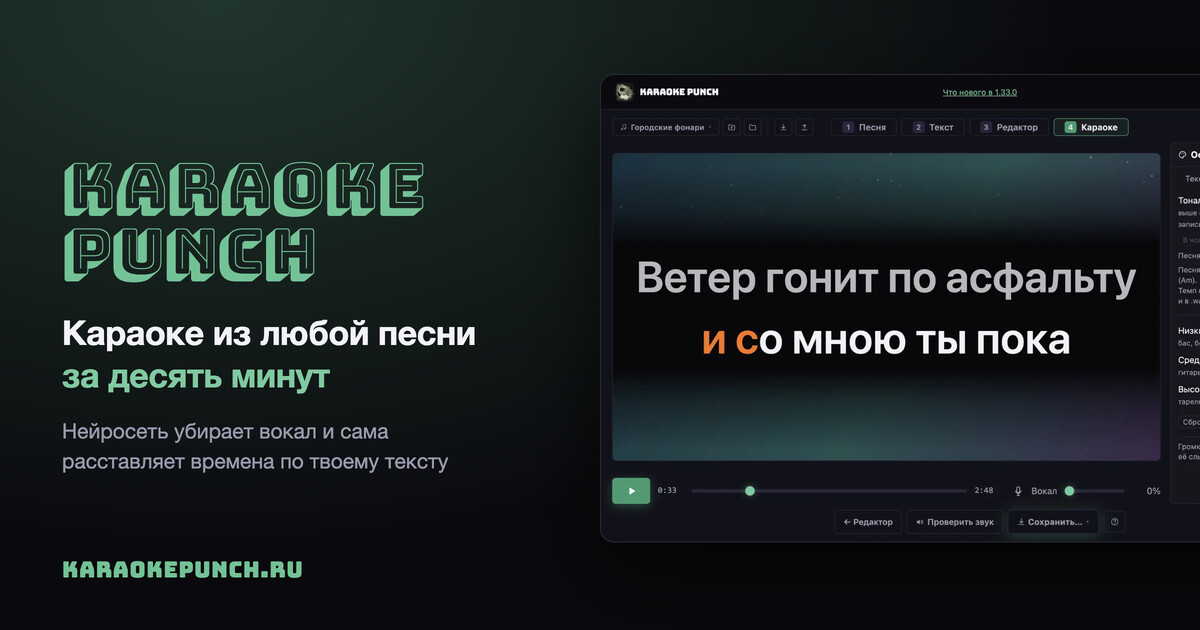
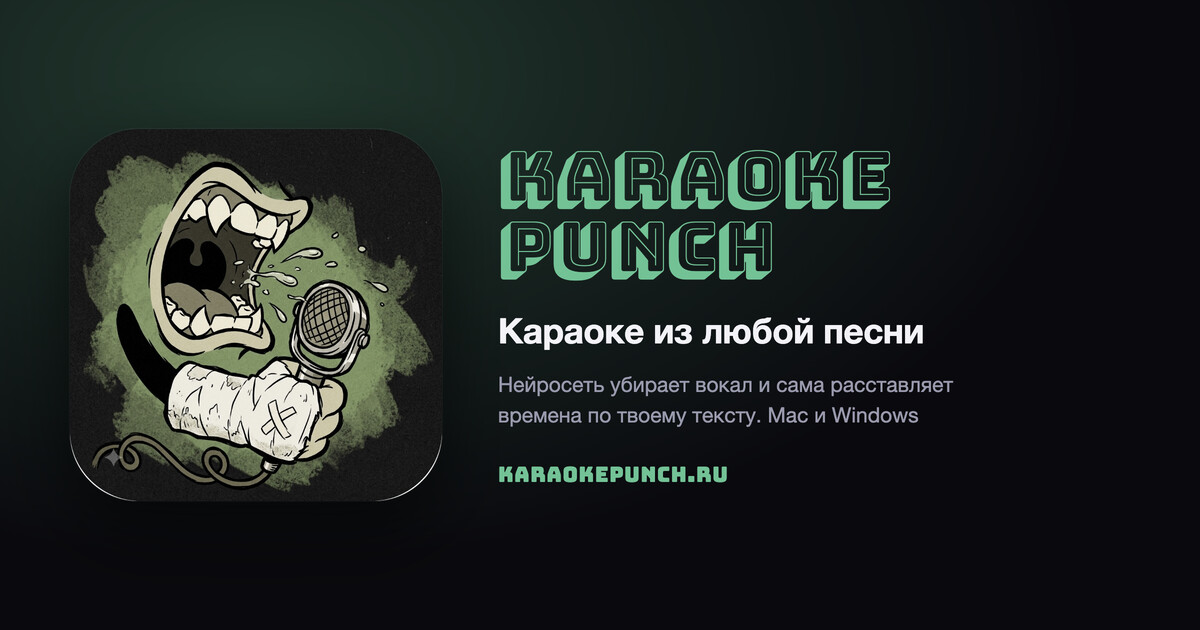
Карточка ссылки — с логотипом
Человек сказал прямо: «я думал карточкой будет логотип». Так вернее:
в ленте мессенджера картинку видят размером в ноготь, и узнаётся там
не снимок окна, а сам знак. Теперь на карточке логотип, название нашим
шрифтом, одна строка про дело и адрес сайта; снимки студии остались
там, где их разглядывают, — на самой странице.

Рядом с _card.html лежит _card2.html — запасная раскладка: логотип
и название посередине, без пояснений. Поменять карточку — это снять
другую страницу и положить в shots/card.jpg.

Версия сайта 1.33.4: номер в адресе картинки сбивает кэш карточки
у мессенджеров, иначе они ещё сутки показывали бы прежнюю.

diff --git a/index.html b/index.html
@@ -33,7 +33,7 @@
   <meta property="og:url" content="https://karaokepunch.ru/">
   <meta property="og:title" data-i18n-content="мета.заголовок" content="Karaoke Punch — создай караоке из любой песни">
   <meta property="og:description" data-i18n-content="мета.описание" content="Караоке-студия для Mac и Windows: нейросеть убирает вокал и сама расставляет времена по твоему тексту. Пой с пословной подсветкой и сохраняй готовое видео. Бесплатно, без серверов и регистрации.">
-  <meta property="og:image" content="https://karaokepunch.ru/shots/card.jpg?v=1.33.3">
+  <meta property="og:image" content="https://karaokepunch.ru/shots/card.jpg?v=1.33.4">
   <meta property="og:image:type" content="image/jpeg">
   <meta property="og:image:width" content="1200">
   <meta property="og:image:height" content="630">
@@ -43,7 +43,7 @@
   <link rel="icon" href="icons/icon-192.png" sizes="192x192">
   <link rel="apple-touch-icon" href="icons/apple-touch-icon.png">
   <meta name="theme-color" content="#0a0a0f">
-  <link rel="stylesheet" href="style.css?v=1.33.3">
+  <link rel="stylesheet" href="style.css?v=1.33.4">
 </head>
 <body>
 
@@ -2890,22 +2890,22 @@
   <button class="footer-link" id="btn-whatsnew" data-i18n="подвал.новости">Что нового в {версия}</button>
 </footer>
 
-<script src="i18n.js?v=1.33.3"></script>
+<script src="i18n.js?v=1.33.4"></script>
 <!-- БПФ и счётчик темпа: общие с рабочими потоками (pitch-worker.js
      считает по fft.js тональность, tempo.js умеет работать и сам
      потоком). Здесь они нужны окну: самопроверке и запасному пути,
      если поток не завёлся. Обязательно ДО app.js. -->
-<script src="fft.js?v=1.33.3"></script>
-<script src="tempo.js?v=1.33.3"></script>
+<script src="fft.js?v=1.33.4"></script>
+<script src="tempo.js?v=1.33.4"></script>
 <!-- Чистая арифметика разметки: строки, слова, распев. Обязательно
      ДО app.js — он зовёт её функции и берёт из неё MIN_SPAN. -->
 <!-- Сборщики контейнеров. Нужны только при сохранении видео: студия
      сама сжимает кадры и звук и сама складывает из них файл, не полагаясь
      на запись в реальном времени (см. «Ролик собирается, а не пишется»
      в README). Оба лежат у нас, оба MIT. -->
-<script src="mp4-muxer.js?v=1.33.3"></script>
-<script src="webm-muxer.js?v=1.33.3"></script>
-<script src="timing.js?v=1.33.3"></script>
-<script src="app.js?v=1.33.3"></script>
+<script src="mp4-muxer.js?v=1.33.4"></script>
+<script src="webm-muxer.js?v=1.33.4"></script>
+<script src="timing.js?v=1.33.4"></script>
+<script src="app.js?v=1.33.4"></script>
 </body>
 </html>

diff --git a/_card.html b/_card.html
@@ -9,57 +9,51 @@
 * { margin: 0; padding: 0; box-sizing: border-box; }
 html, body { width: 1200px; height: 630px; overflow: hidden; }
 body {
-  background: radial-gradient(ellipse at 18% 0%, rgba(53, 156, 110, 0.30), transparent 62%), #0a0a0f;
+  background: radial-gradient(ellipse at 22% 12%, rgba(53, 156, 110, 0.32), transparent 62%), #0a0a0f;
   color: #f2f2f7;
   font-family: -apple-system, "Helvetica Neue", sans-serif;
   display: flex;
   align-items: center;
-  position: relative;
+  gap: 56px;
+  padding: 0 70px;
 }
-.left { width: 560px; padding: 0 0 0 62px; flex: none; }
+.logo {
+  width: 372px;
+  height: 372px;
+  flex: none;
+  border-radius: 68px;
+  box-shadow: 0 28px 70px rgba(0, 0, 0, 0.6), 0 0 0 1px rgba(255, 255, 255, 0.05);
+}
 .mark {
   font-family: 'Bungee Shade', Impact, sans-serif;
-  font-size: 62px;
-  line-height: 1.06;
+  font-size: 68px;
+  line-height: 1.04;
   color: #54C492;
-  letter-spacing: 0.01em;
 }
 .tag {
   margin-top: 26px;
-  font-size: 34px;
-  line-height: 1.25;
+  font-size: 35px;
+  line-height: 1.22;
   font-weight: 700;
   letter-spacing: -0.01em;
 }
-.tag i { color: #67CB9E; font-style: normal; }
-.sub { margin-top: 20px; font-size: 21px; line-height: 1.45; color: #9a9ab0; }
+.sub { margin-top: 18px; font-size: 21px; line-height: 1.45; color: #9a9ab0; }
 .host {
-  position: absolute;
-  left: 62px;
-  bottom: 46px;
+  margin-top: 30px;
   font-family: 'Bungee', Impact, sans-serif;
-  font-size: 22px;
+  font-size: 21px;
   color: #54C492;
   letter-spacing: 0.03em;
-}
-.shot {
-  position: absolute;
-  left: 600px;
-  top: 74px;
-  width: 760px;
-  border: 1px solid #2a2a36;
-  border-radius: 14px;
-  box-shadow: 0 30px 80px rgba(0, 0, 0, 0.65);
 }
 </style>
 </head>
 <body>
-  <div class="left">
+  <img class="logo" src="logo.png" alt="">
+  <div>
     <div class="mark">KARAOKE<br>PUNCH</div>
-    <div class="tag">Караоке из любой песни<br><i>за десять минут</i></div>
-    <div class="sub">Нейросеть убирает вокал и сама<br>расставляет времена по твоему тексту</div>
+    <div class="tag">Караоке из любой песни</div>
+    <div class="sub">Нейросеть убирает вокал и сама расставляет<br>времена по твоему тексту. Mac и Windows</div>
+    <div class="host">karaokepunch.ru</div>
   </div>
-  <img class="shot" src="shots/studio-4-ru.webp" alt="">
-  <div class="host">karaokepunch.ru</div>
 </body>
 </html>

diff --git a/desktop/renderer/index.html b/desktop/renderer/index.html
@@ -33,7 +33,7 @@
   <meta property="og:url" content="https://karaokepunch.ru/">
   <meta property="og:title" data-i18n-content="мета.заголовок" content="Karaoke Punch — создай караоке из любой песни">
   <meta property="og:description" data-i18n-content="мета.описание" content="Караоке-студия для Mac и Windows: нейросеть убирает вокал и сама расставляет времена по твоему тексту. Пой с пословной подсветкой и сохраняй готовое видео. Бесплатно, без серверов и регистрации.">
-  <meta property="og:image" content="https://karaokepunch.ru/shots/card.jpg?v=1.33.3">
+  <meta property="og:image" content="https://karaokepunch.ru/shots/card.jpg?v=1.33.4">
   <meta property="og:image:type" content="image/jpeg">
   <meta property="og:image:width" content="1200">
   <meta property="og:image:height" content="630">
@@ -2962,9 +2962,9 @@
      сама сжимает кадры и звук и сама складывает из них файл, не полагаясь
      на запись в реальном времени (см. «Ролик собирается, а не пишется»
      в README). Оба лежат у нас, оба MIT. -->
-<script src="mp4-muxer.js?v=1.33.3"></script>
-<script src="webm-muxer.js?v=1.33.3"></script>
-<script src="timing.js?v=1.33.3"></script>
+<script src="mp4-muxer.js?v=1.33.4"></script>
+<script src="webm-muxer.js?v=1.33.4"></script>
+<script src="timing.js?v=1.33.4"></script>
 <div class="export-overlay hidden" id="ai-overlay">
   <div class="export-box">
     <p id="ai-status" data-i18n="ии.готовим">Готовим модель…</p>

diff --git a/_card2.html b/_card2.html
@@ -1,0 +1,49 @@
+<!DOCTYPE html>
+<html lang="ru">
+<head>
+<meta charset="UTF-8">
+<title>карточка</title>
+<style>
+@font-face { font-family: 'Bungee'; src: url('fonts/bungee.woff2') format('woff2'); font-display: block; }
+@font-face { font-family: 'Bungee Shade'; src: url('fonts/bungee-shade.woff2') format('woff2'); font-display: block; }
+* { margin: 0; padding: 0; box-sizing: border-box; }
+html, body { width: 1200px; height: 630px; overflow: hidden; }
+body {
+  background: radial-gradient(ellipse at 50% 6%, rgba(53, 156, 110, 0.30), transparent 64%), #0a0a0f;
+  color: #f2f2f7;
+  font-family: -apple-system, "Helvetica Neue", sans-serif;
+  display: flex;
+  flex-direction: column;
+  align-items: center;
+  justify-content: center;
+  gap: 30px;
+}
+.logo {
+  width: 268px;
+  height: 268px;
+  border-radius: 50px;
+  box-shadow: 0 26px 64px rgba(0, 0, 0, 0.6), 0 0 0 1px rgba(255, 255, 255, 0.05);
+}
+.mark {
+  font-family: 'Bungee Shade', Impact, sans-serif;
+  font-size: 66px;
+  line-height: 1;
+  color: #54C492;
+  text-align: center;
+}
+.tag { font-size: 30px; font-weight: 700; letter-spacing: -0.01em; }
+.host {
+  font-family: 'Bungee', Impact, sans-serif;
+  font-size: 20px;
+  color: #54C492;
+  letter-spacing: 0.03em;
+}
+</style>
+</head>
+<body>
+  <img class="logo" src="logo.png" alt="">
+  <div class="mark">KARAOKE PUNCH</div>
+  <div class="tag">Караоке из любой песни</div>
+  <div class="host">karaokepunch.ru</div>
+</body>
+</html>

diff --git a/app.js b/app.js
@@ -22,7 +22,7 @@ function значокSVG(имя, cls) {
 
 /* Версия студии — сверяется с version.json, чтобы предупредить,
    что браузер показывает устаревшую копию из кэша */
-const APP_VERSION = '1.33.3';
+const APP_VERSION = '1.33.4';
 
 /* ---------- Модификатор в подписях горячих клавиш ----------
    Сами клавиши код ловит одинаково (metaKey || ctrlKey), а вот подписи

diff --git a/desktop/renderer/app.js b/desktop/renderer/app.js
@@ -22,7 +22,7 @@ function значокSVG(имя, cls) {
 
 /* Версия студии — сверяется с version.json, чтобы предупредить,
    что браузер показывает устаревшую копию из кэша */
-const APP_VERSION = '1.33.3';
+const APP_VERSION = '1.33.4';
 
 /* ---------- Модификатор в подписях горячих клавиш ----------
    Сами клавиши код ловит одинаково (metaKey || ctrlKey), а вот подписи

diff --git a/README.md b/README.md
@@ -2823,9 +2823,14 @@ npx electron . --user-data-dir=/tmp/профиль-снимки
 не было, вместо картинки рисовалась серая заглушка.
 
 Картинку собирает **`_card.html`** в корне репозитория: там наши шрифты
-(Bungee из `fonts/`), наши цвета и снимок студии — то есть карточка
-всегда выглядит как сайт, а не как отдельная картинка из редактора.
-Перерисовать её:
+(Bungee из `fonts/`), наши цвета и сам логотип — то есть карточка всегда
+выглядит как сайт, а не как отдельная картинка из редактора. Рядом лежит
+**`_card2.html`** — запасная раскладка: логотип и название посередине,
+без пояснений. Человек сказал прямо: «я думал карточкой будет логотип», —
+поэтому в карточке он и стоит первым, а снимок студии живёт на самой
+странице (см. «Снимки для витрины сайта»).
+
+Перерисовать:
 
 ```bash
 # 1. поднять сервер сайта (python3 -m http.server 8765) и снять окно 1200×630
